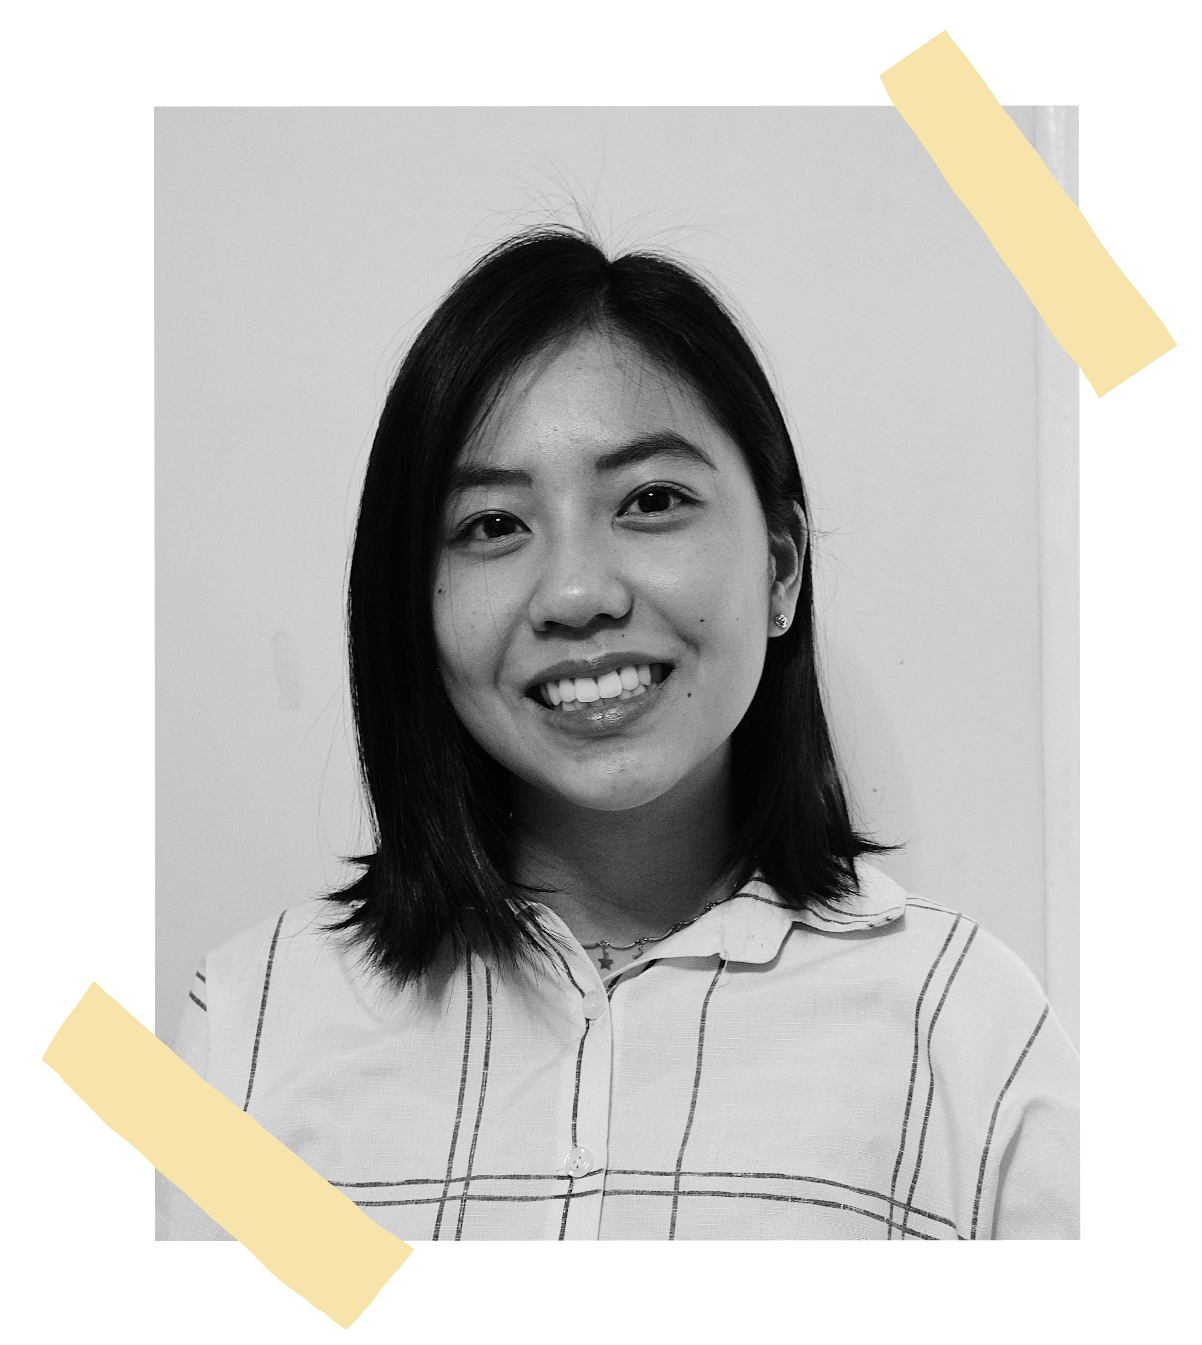
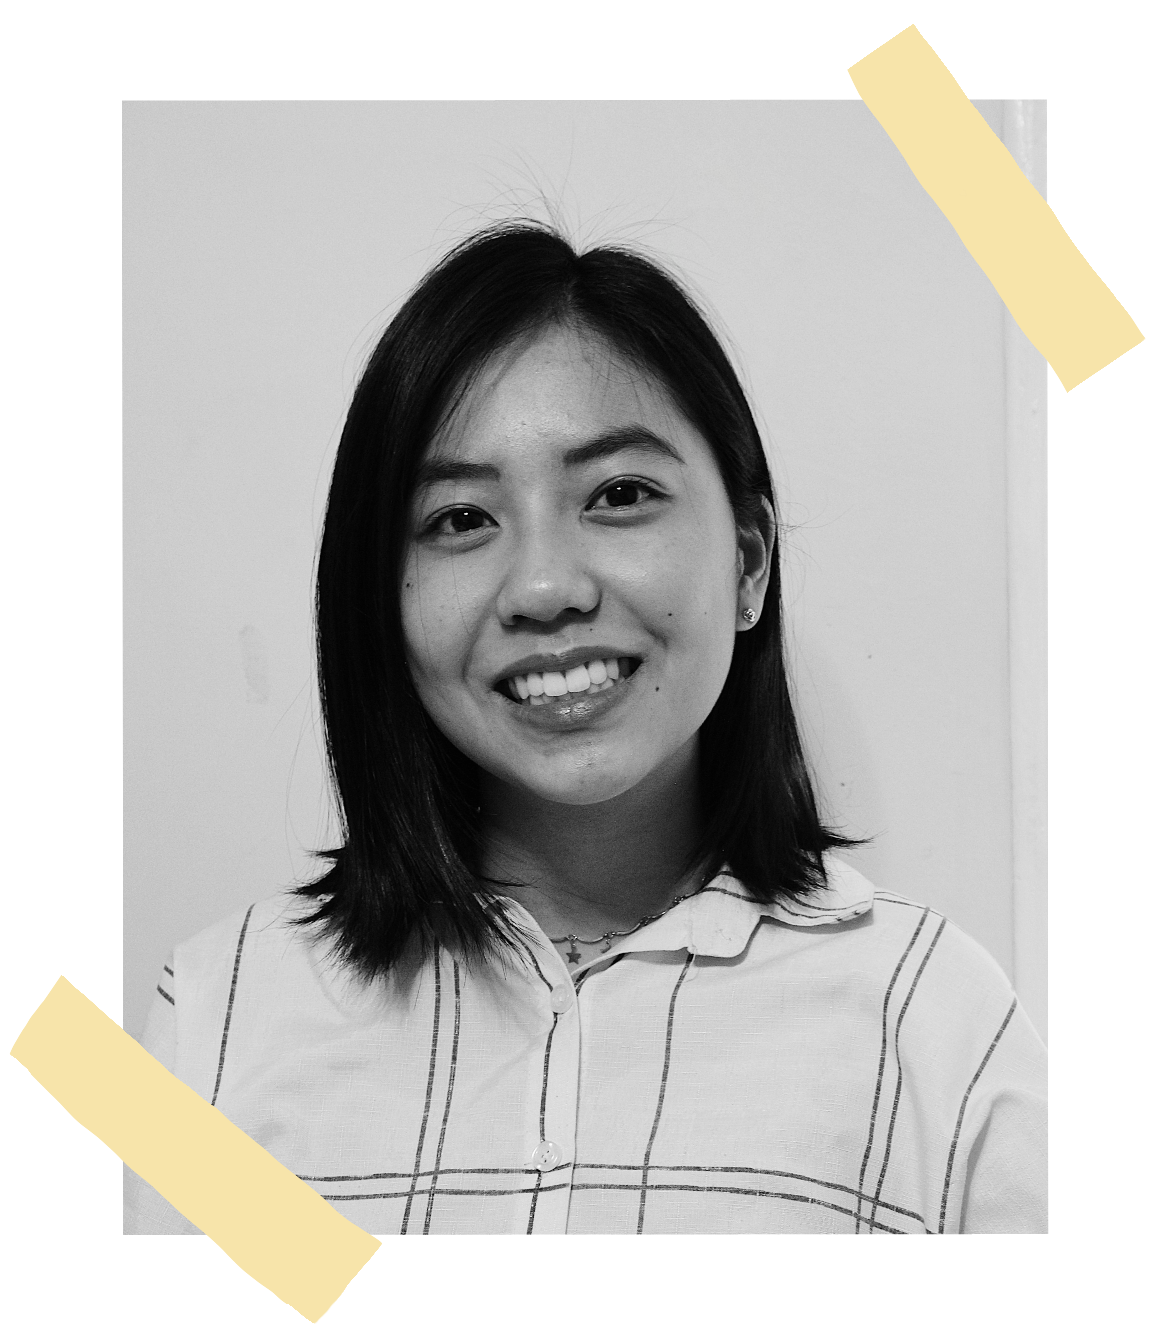
adaptable for devices

diff --git a/src/components/aboutMe.js b/src/components/aboutMe.js
@@ -5,8 +5,10 @@ class AboutMe extends React.Component{
     render(){
         return(
             <section> 
-                <img src={require("./me.png")} alt="headshot of Christi" />
-                <div class="text"> 
+                <div className="image_container">
+                    <img src={require("./me.png")} alt="headshot of Christi" />
+                </div>
+                <div className="text"> 
                     <p>
                         Hi! My name is Christi and I am a rising junior at Columbia University 
                         majoring in computer science and minoring in East Asian studies. I love
@@ -20,7 +22,7 @@ class AboutMe extends React.Component{
                     <br /> 
 
                     <aside>
-                        <p class='industry'>Industry experience: </p>
+                        <p className='industry'>Industry experience: </p>
                         <ul>
                             <li>SWE Intern @Uber</li>
                             <li>Tech Analyst Intern @Bank of America</li>

diff --git a/src/components/aboutMe.css b/src/components/aboutMe.css
@@ -1,31 +1,51 @@
 section{
     font-size: 26px;
-    font-family: 'Courier New'; 
+    font-family: 'Courier New', sans-serif; 
     line-height: 1.6;
-    margin: 20px;
-    position: relative; 
-    top: 50px; 
+    margin: 0.8em;
 }
 
 .text{
-    position: relative; 
-    top: 35px;  
-    left: 50px; 
+    margin: 1em 2em;
     display: inline-block;
     width: 45%;
 }
 
 li{
-    margin-left: 50px;
-    padding-left: 5px; 
+    margin-left: 0.75em;
+    padding-left: 0.15em; 
     list-style: disc;
 }
 img{
-    width: 500px; 
+    width: 40%; 
+    max-width: 19.8rem;
     height: auto;
     float: left; 
 }
 
 .industry{
     font-weight:bold; 
+}
+
+@media only screen and (max-width: 1000px){
+    .text{
+        font-size: 20px; 
+    }
+}
+@media only screen and (max-width:800px){
+    .image_container {
+        display: inline-flex;
+        width: 100%; 
+    }
+
+    img{
+        margin: 0 auto; 
+        display: inline-block;
+        width: 80%;
+    }
+
+    .text{ 
+        margin: 0 auto; 
+        width: 100%; 
+    }
 }

diff --git a/src/App/App.css b/src/App/App.css
@@ -1,24 +1,52 @@
-*{
-  background-color:#edcfa8;
+html{
+  background-color:#DEB887;
+  font-size: 25px;
+  font-family: Monteserrat, Helvetica, sans-serif; 
 }
 
-a{
+header{
+  margin-top: 0.5em;
+  width: 100%;
+  background-color: seashell; 
+  min-height: 4em; 
+}
+
+nav{
+  text-align: right; 
+}
+
+a{ 
   text-decoration: none;
-  font-size: 25px;
   color: #274c5f;
   font-family: Monteserrat;
-  margin: 20px; 
-  position: relative; 
-  left: 60px; 
-  top: 50px; 
-  /*background-color: #f7e5ab; */
+  display: inline-block;
+  margin: 1.5rem 1.5rem; 
 }
 
 .name{
-  font-size: 50px; 
-  font-weight: bold; 
-  /*display: inline-block;
-  width: 60%;*/
-
+  margin: 0.8rem 1.5rem; 
+  float: left;
+  font-size: 2rem; 
+  font-weight: bold;  
 }
+
+@media only screen and (max-width:1000px){
+  .name{
+    display: block;
+    width: 100%;  
+    text-align: center;
+    margin: 0.5rem 0.25rem;
+  }
+
+  nav{
+    text-align: center; 
+    margin: 0.5rem 0.5rem;
+  }
+
+  a{
+    margin: 0.5rem 1rem;
+  }
+}
+
+
 

diff --git a/src/App/App.js b/src/App/App.js
@@ -7,9 +7,14 @@ class App extends React.Component{
   render(){
     return(
       <div className="App">
-        <a class="name" href="../components/aboutMe">Christi Kim</a>
-        <a href="../components/aboutMe">About Me</a>
-        <a href={require("../components/resume.pdf")} target="_blank">Resume</a>
+        <header> 
+          <nav> 
+            <a className="name" href="../components/aboutMe">Christi Kim</a>
+            <a href="../components/aboutMe">About Me</a>
+            <a href={require("../components/blog")}>Blog</a>
+            <a href={require("../components/resume.pdf")} target="_blank">Resume</a>
+          </nav>
+        </header>
         <AboutMe />
       </div>
     );

diff --git a/public/index.html b/public/index.html
@@ -2,7 +2,7 @@
 <html lang="en">
   <head>
     <meta charset="utf-8" />
-    <link rel="icon" href="%PUBLIC_URL%/favicon.ico" />
+    <link rel="icon" href="./favicon.ico" />
     <meta name="viewport" content="width=device-width, initial-scale=1" />
     <meta name="theme-color" content="#000000" />
     <meta
